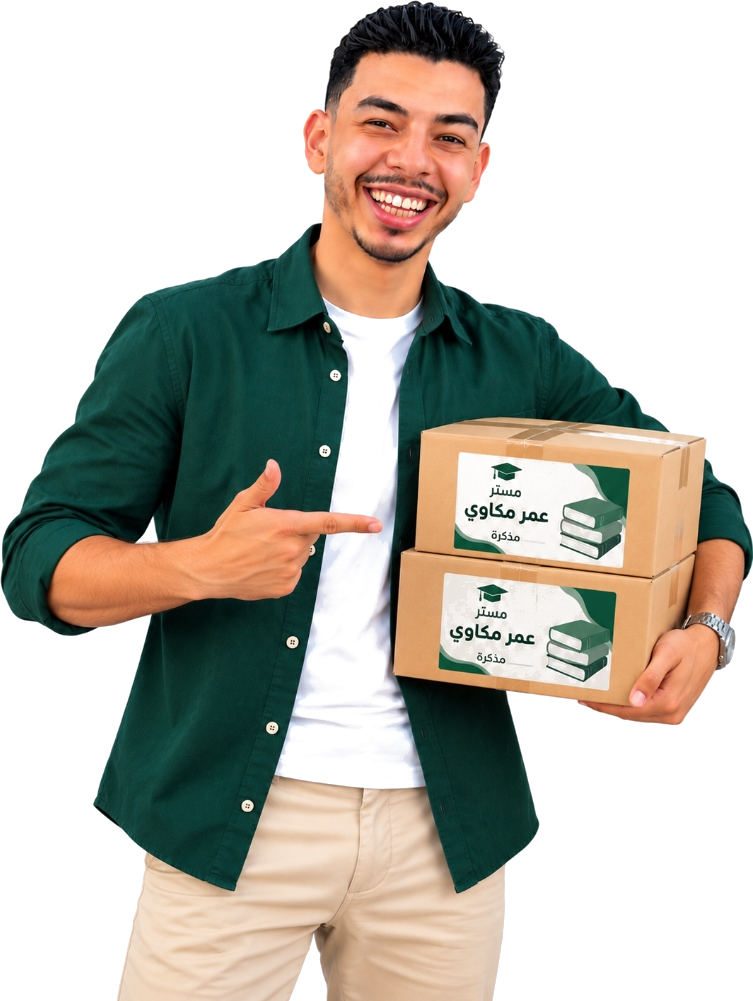
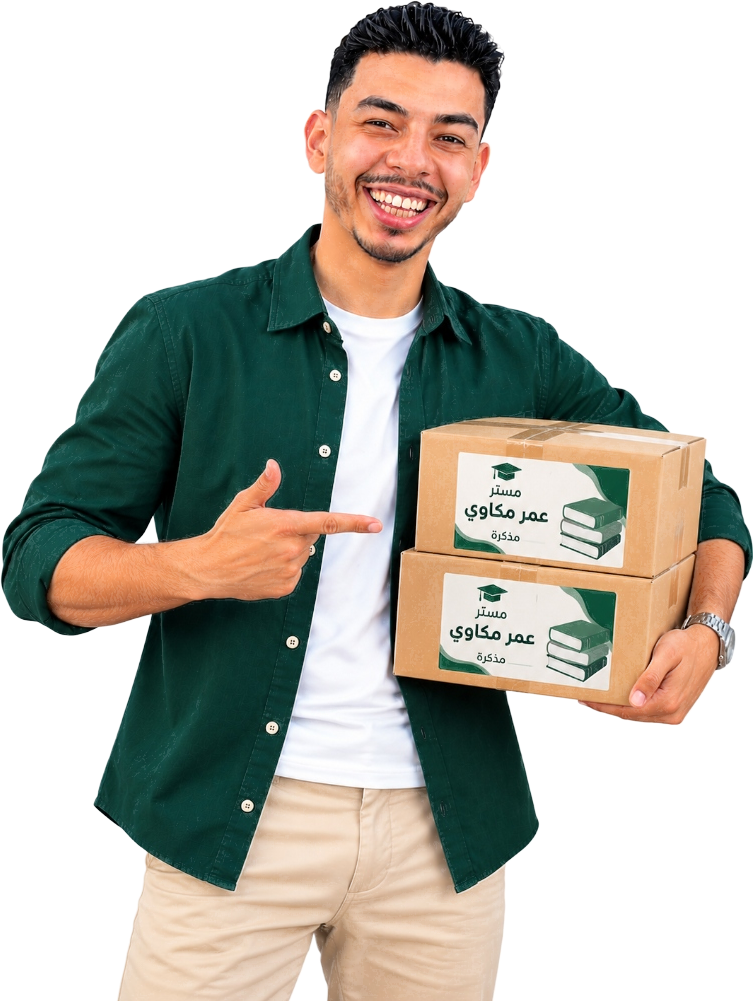
feat: refine Card 3 cutout with dual matting using Light & Dark mode photos

diff --git a/apps/web/src/components/home/FeaturesSection.tsx b/apps/web/src/components/home/FeaturesSection.tsx
@@ -48,7 +48,7 @@ export default function FeaturesSection() {
       id: 3,
       title: t('features.storeTitle', 'متجر الكتب والمذكرات'),
       description: t('features.storeDesc', 'اطلب مذكرات وكتب المنهج الرسمية تصلك حتى باب المنزل أو حملها بصيغة PDF.'),
-      image: '/assets/features/feature-4-cutout.png?v=20261001_v70'
+      image: '/assets/features/feature-4-cutout.png?v=20261001_v120'
     },
     {
       id: 4,
